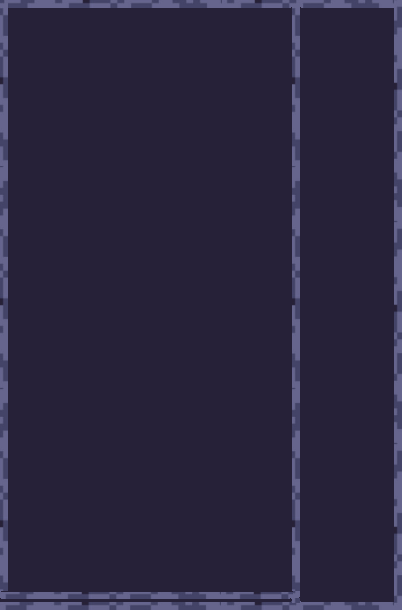
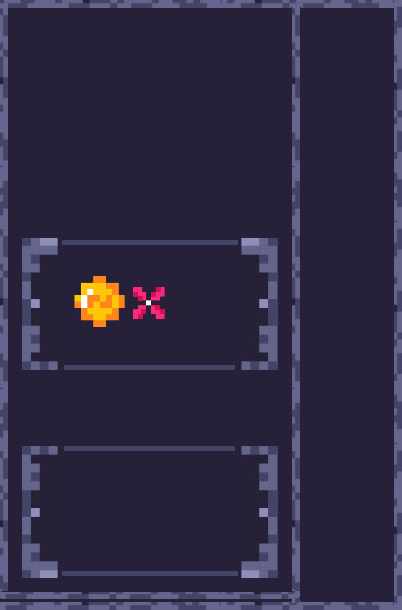
HUD - bullets, lives, highscore

Changed region(s): [[0.0299, 0.7164, 0.7164, 0.9656], [0.0299, 0.3738, 0.7164, 0.623], [0.1791, 0.4361, 0.4179, 0.5607]]

diff --git a/cosmic_conflict.py b/cosmic_conflict.py
@@ -116,6 +116,7 @@ class Game():
         # Initialise default player ship
         self.player = Player("SHIP1")
         self.initialise_planets()
+     
 
     # Create non-button text 
     def text(self, message, font, color, pos):
@@ -135,7 +136,7 @@ class Game():
         # Check if the player is touching the bottom edge
         touching_bottom = self.player.rect.bottom > self.height
 
-        # If 'S' is pressed and player is NOT touching the bottom edge → move up (-0.6)
+        # If 'S' is pressed and player is NOT touching the bottom edge then move up (-0.6)
         if key[pygame.K_s] and not touching_bottom:
             self.BG_y -= 0.6
         else:
@@ -180,7 +181,6 @@ class Game():
             self.planet_group.add(planet)
     
     def initialise_hearts(self): 
-        self.heart_stack = []  # Resets  heart stack 
 
         num_hearts = self.player.lives  # Number of initial hearts corresponds to player's lives
         x_initial = 450  # Starting x coordinate for the first heart
@@ -191,7 +191,7 @@ class Game():
 
         for i in range(num_hearts):
             heart = Heart(pos_x, pos_y)  # Create a new heart object
-            self.heart_stack.append(heart)  # Store the heart in the stack
+            self.player.heart_stack.append(heart)  # Store the heart in the stack
 
             pos_x += 100  # Shift the x position of heart to the right for next heart
             
@@ -199,6 +199,26 @@ class Game():
             if (i + 1) % 3 == 0:
                 pos_x = x_initial  # Reset x to initial position for a new row
                 pos_y += 100  # Move hearts down to the next row
+    
+    def initialise_bullets(self): 
+        num_bullets = self.player.ammo  # Number of initial bullets corresponds to player's ammo
+        x_initial = 465  # Starting x coordinate for the first bullet
+        y_initial = 470  # Starting y coordinate for the first bullet
+        x_spacing, y_spacing = 40, 15
+
+        pos_x, pos_y = x_initial, y_initial
+
+        for i in range(num_bullets):
+            bullet = Bullet(pos_x, pos_y, 0)  # Create a new bullet object
+            self.player.bullet_stack.append(bullet)  # Store the bullet in the stack
+            self.bullet_group.add(bullet)
+            pos_y += y_spacing  # Shift the y position of the bullet downward for the next bullet
+
+            # Every 6 bullets, reset y position and move right to form a new column
+            if (i + 1) % 6 == 0:
+                pos_y = y_initial  # Reset y to initial position for a new column
+                pos_x += x_spacing  # Move bullets to the right to start a new column
+
 
     def run(self):
         while self.running:
@@ -243,12 +263,22 @@ class Game():
         if Game.CONFIG["HUD"] and self.width != 700:
             self.set_screen_size(700)
             self.initialise_hearts()
+            self.initialise_bullets()
         
         self.screen.blit(Game.BG_IMG["OVERLAY"], (400, 0))
         
-        for heart in self.heart_stack:
+        self.text("LIVES", self.FONT_SMALL, "WHITE", (510, 15))
+        self.text("HI SCORE", self.FONT_SMALL, "WHITE", (485, 215))
+        self.text("34", self.FONT_LARGE, "WHITE", (580, 283))
+
+        self.text("AMMO", self.FONT_SMALL, "WHITE", (500, 420))
+        
+        for bullet in self.player.bullet_stack:
+            bullet.update()
+        
+        for heart in self.player.heart_stack:
             heart.update()
-            
+       
     def menu(self):
         # Menu logic
         self.text("COSMIC CONFLICT",self.FONT_MEDIUM, "YELLOW", (8,30))
@@ -262,7 +292,6 @@ class Game():
         # Play logic 
        
         # Update and draw sprite groups
-        self.bullet_group.draw(self.screen)
         self.planet_group.update()
         self.bullet_group.update()
         self.player.update()
@@ -337,7 +366,7 @@ class Player(pygame.sprite.Sprite):
         self.type = Game.instance.selected_ship_description["type"]
         self.fire_rate = Game.instance.selected_ship_description["fire rate"] * 10
         self.bullet_speed = Game.instance.selected_ship_description["bullet speed"]
-
+        self.max_lives = self.lives
         # Determine the correct ship image index based on selection
         index = list(Game.instance.SHIP_DATA).index(self.selected_ship)
         self.image = Player.PLAYER_SHIP_LIST[index]
@@ -347,6 +376,9 @@ class Player(pygame.sprite.Sprite):
         self.rect = self.image.get_rect(center=default_pos)
     
         self.previous_time = pygame.time.get_ticks()
+        
+        self.heart_stack = []
+        self.bullet_stack = []
 
     def update(self):
         key = pygame.key.get_pressed()  # Returns tuple of bools for keys pressed
@@ -386,10 +418,11 @@ class Player(pygame.sprite.Sprite):
             self.rect.y -= self.speed
         if key[pygame.K_s] and self.rect.y < Game.instance.height - self.rect.height: 
             self.rect.y += self.speed
-    
+            self.gain_bullet()
+
     def shoot_bullet(self, key):       
        # Check if the spacebar is pressed
-        if key[pygame.K_SPACE]:
+        if key[pygame.K_SPACE] and self.ammo > 0:
             # Get the current time in milliseconds
             current_time = pygame.time.get_ticks()
 
@@ -401,32 +434,62 @@ class Player(pygame.sprite.Sprite):
                     x, y, *direction = pattern  # Unpack tuple, direction is optional
                     bullet = Bullet(self.rect.x + x, self.rect.y + y, self.bullet_speed, True, *direction)
                     Game.instance.bullet_group.add(bullet)
+                
+                self.lose_bullet()
+                
+    def gain_bullet(self):
+        if self.ammo < 30:
+            self.ammo += 1
+            # Determine initial position 
+            x_initial, y_initial = 465, 470
+            bullets_per_column = 6
+            x_spacing, y_spacing = 40, 15  # Spacing between bullets
+            
+            # Determine position of the next bullet
+            bullet_count = len(self.bullet_stack)
+            col = bullet_count // bullets_per_column
+            row = bullet_count % bullets_per_column
 
-                self.ammo -= 1
-                    
+            x_new = x_initial + col * x_spacing
+            y_new = y_initial + row * y_spacing
+
+            # Add new bullet
+            bullet = Bullet(x_new, y_new, 0)
+            self.bullet_stack.append(bullet)
+
+    
+    def lose_bullet(self):
+        if self.bullet_stack:
+            self.bullet_stack.pop()  # Remove from stack
+            self.ammo -= 1
+
     def gain_life(self):
-        if self.lives < 6:  # Max life cap
+        if self.lives < self.max_lives:  # Ensure life count does not exceed max limit
             self.lives += 1
 
-            # Determine next heart position
-            x_initial, y_initial = 450, 65
-            row = len(Game.instance.heart_stack) // 3
-            col = len(Game.instance.heart_stack) % 3
+            # Grid layout parameters
+            x_initial, y_initial = 450, 65  # Starting position
+            hearts_per_row = 3  # Number of hearts per row
+            x_spacing, y_spacing = 30, 30  # Spacing between hearts
 
-            x_new = x_initial + col * 100
-            y_new = y_initial + row * 100
+            # Determine next heart position based on current count
+            heart_count = len(self.heart_stack)
+            row = heart_count // hearts_per_row
+            col = heart_count % hearts_per_row
+
+            x_new = x_initial + col * x_spacing
+            y_new = y_initial + row * y_spacing
 
             # Add new heart
             heart = Heart(x_new, y_new)
-            Game.instance.heart_stack.append(heart)
+            self.heart_stack.append(heart)
+
     
     def lose_life(self):
-        if Game.instance.heart_stack:
-            Game.instance.heart_stack.pop()  # Remove from stack
-            Game.instance.player.lives -= 1
+        if self.heart_stack:
+            self.heart_stack.pop()  # Remove from stack
+            self.lives -= 1
         
-    
-
     def render(self):
         Game.instance.screen.blit(self.image, self.rect)  # Draw player sprite
 
@@ -552,15 +615,20 @@ class Bullet(pygame.sprite.Sprite):
             elif self.direction == "NE":
                 self.image = pygame.transform.rotate(self.image, -15) # Rotate 15 degrees clockwise
         
-        # Set the bullet's rectangle for positioning and collision detectio
-        self.rect = self.image.get_rect(
-            center = ((x + Game.instance.player.rect.width//2), y)
-            )
+        # Set the bullet's rectangle for positioning and collision detection
+        if self.speed != 0:
+            self.rect = self.image.get_rect(
+                center = ((x + Game.instance.player.rect.width//2), y)
+                )
+        else:
+            self.rect = self.image.get_rect(
+                center = (x, y)
+                )
     
     def update(self):
         # Updates the bullet's position according to its trajectory
         self.handle_trajectory()
-    
+        self.render()
     def handle_trajectory(self):
         # Moves the bullet straight up
         self.rect.y -= self.speed 
@@ -578,6 +646,9 @@ class Bullet(pygame.sprite.Sprite):
         if pygame.sprite.groupcollide(Game.instance.bullet_group, Game.instance.enemy_group, True, True):
             # Renew player's ammo upon a destroyed enemy
             Game.instance.player.ammo += 2
+    
+    def render(self):
+        Game.instance.screen.blit(self.image, self.rect)
             
 class Planet(pygame.sprite.Sprite):
     # Load all planet images once and store them in a class-level list
